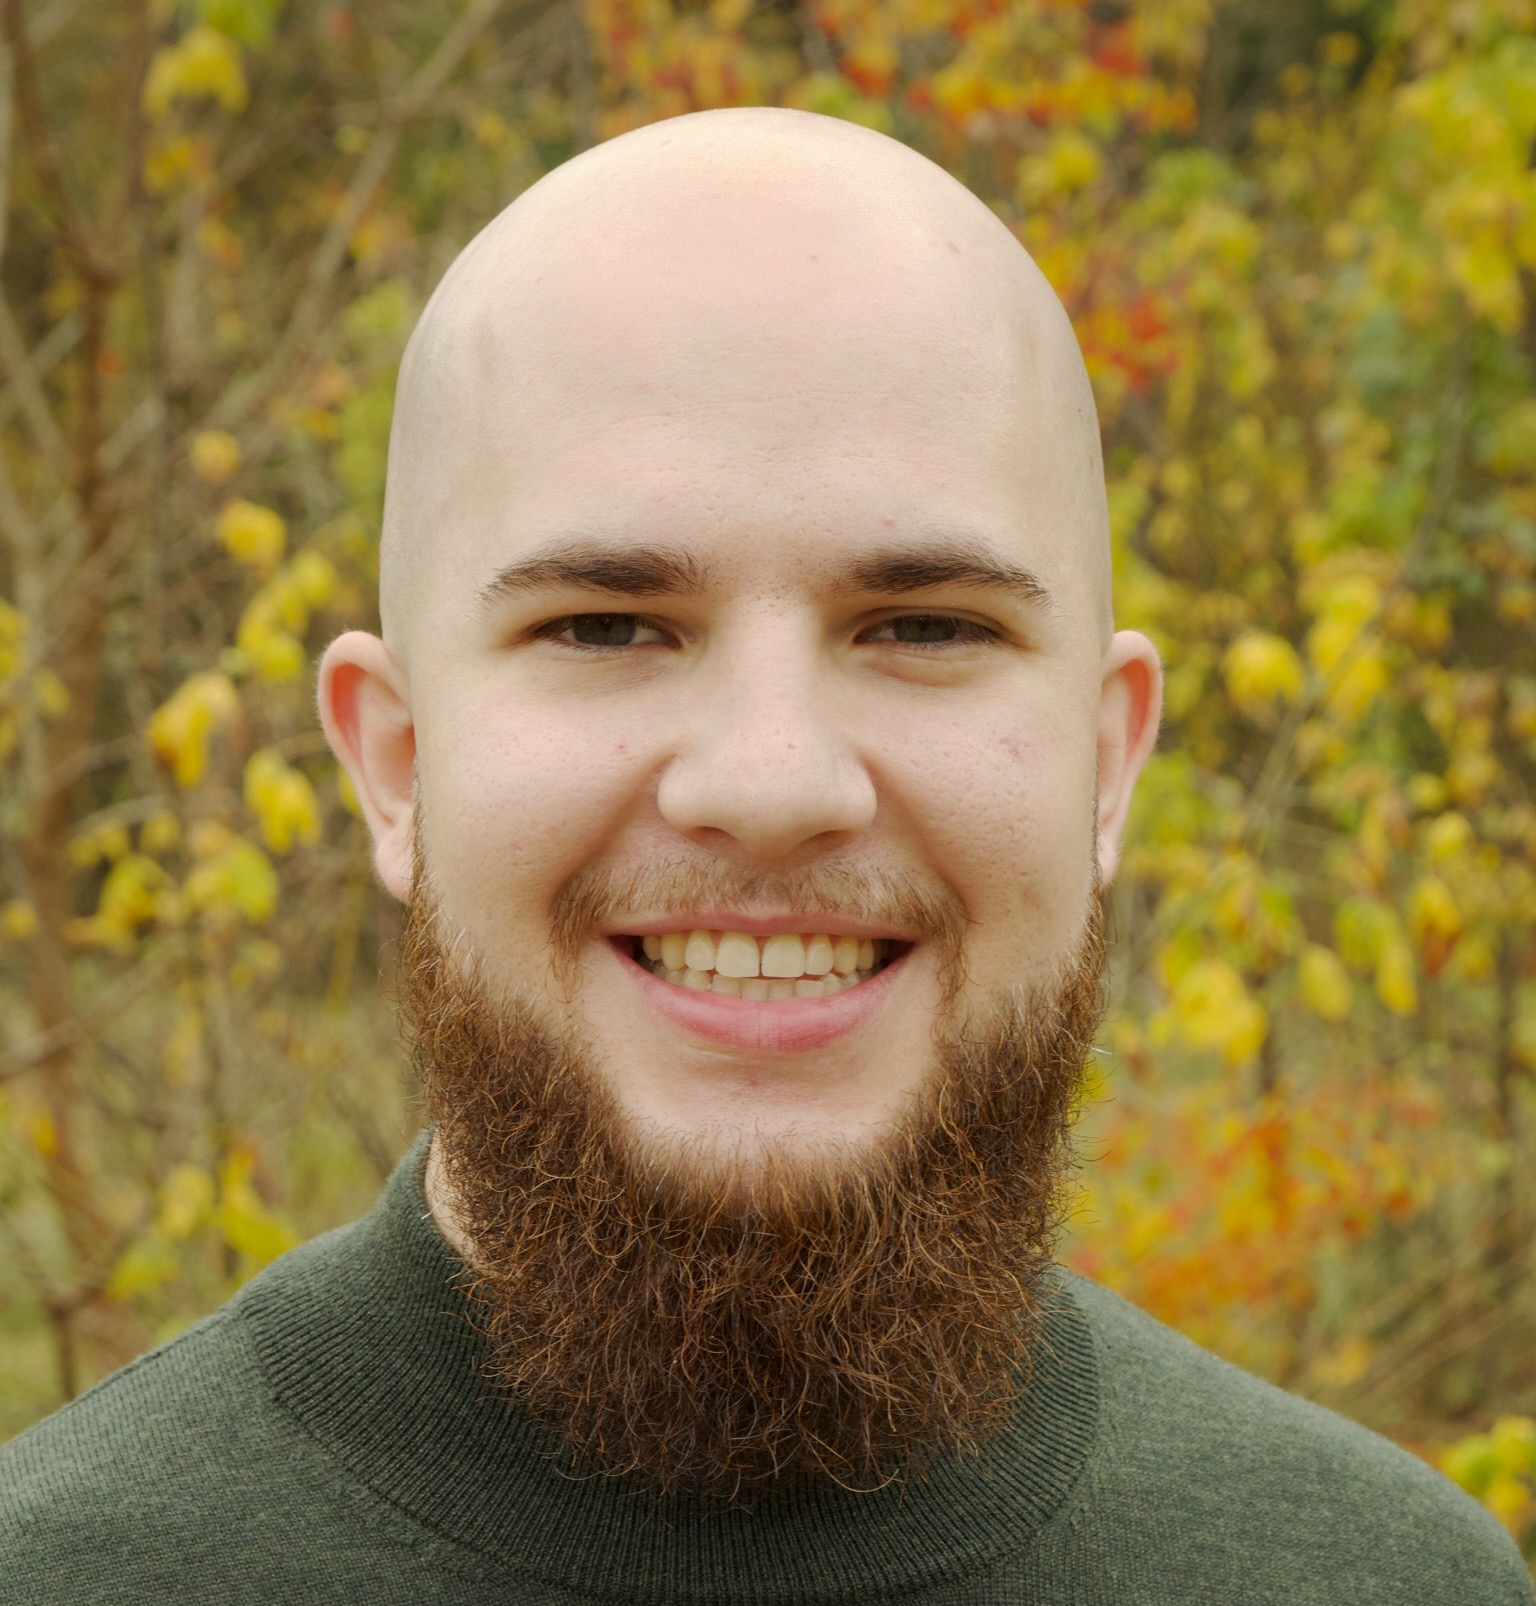
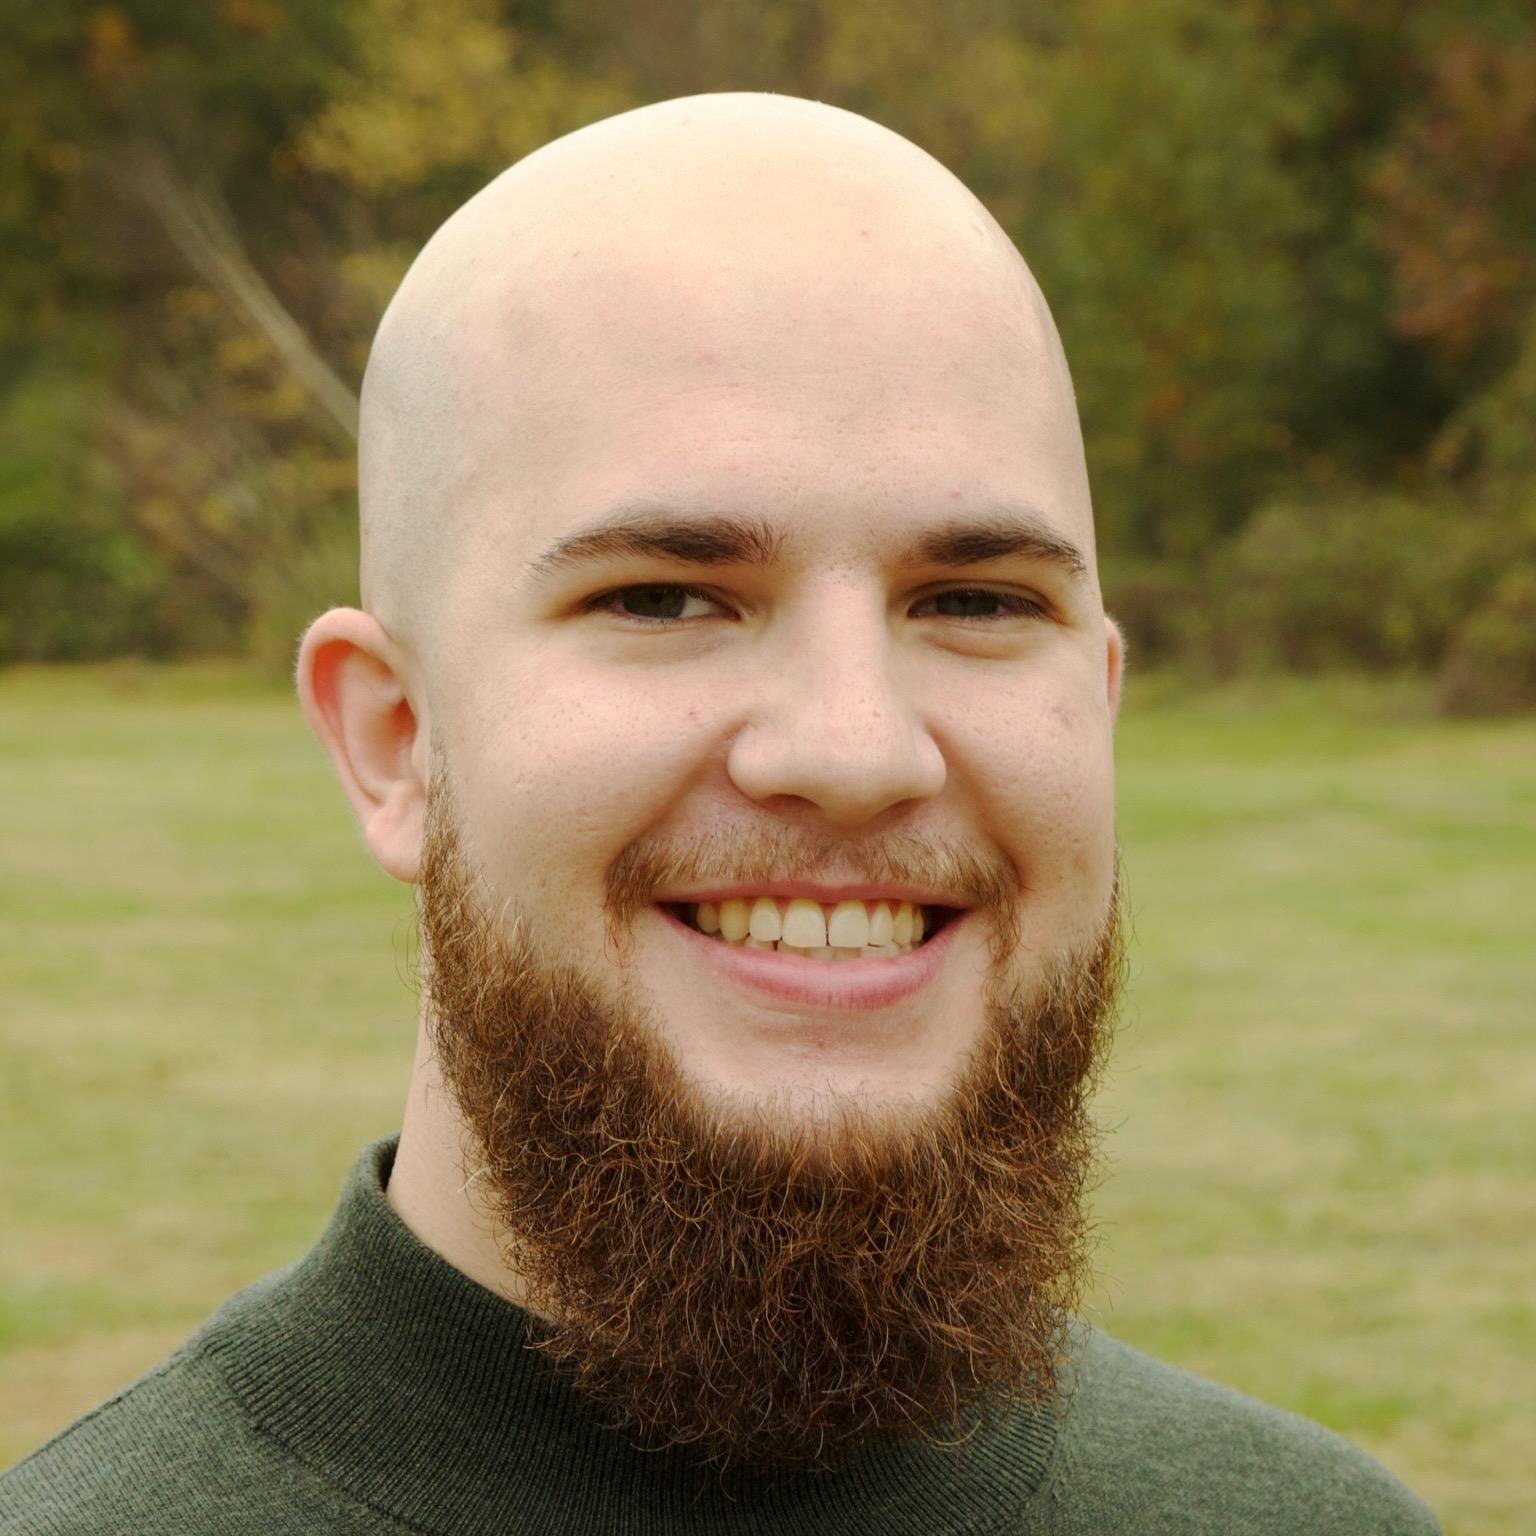
updated pic for linkedin link

diff --git a/index.html b/index.html
@@ -20,8 +20,7 @@
         </div>
         <div class="li-logo">
             <a href="https://www.linkedin.com/in/malott-taylor/">
-            <img src="In-2C-59px-R.png" alt="View my LinkedIn® Profile"
-            class="w3-display-right w3-row-padding w3-col" style = "width:10vw;">
+            <img src="professional-headshot.jpeg" alt="View my LinkedIn® Profile" style = "width:11vw; border-radius: 5.5VW;">
             </a>
         </div>
         <div class="intro">

diff --git a/stylesheet.css b/stylesheet.css
@@ -6,9 +6,10 @@ body {
 
 .li-logo {
     position: fixed;
-    left: 5vw;
+    left: 3.25vw;
     top: 25vw;
-    width: 10vw;
+    width: 11vw;
+    border-radius: 5vw;
 }
 
 .image-container {
